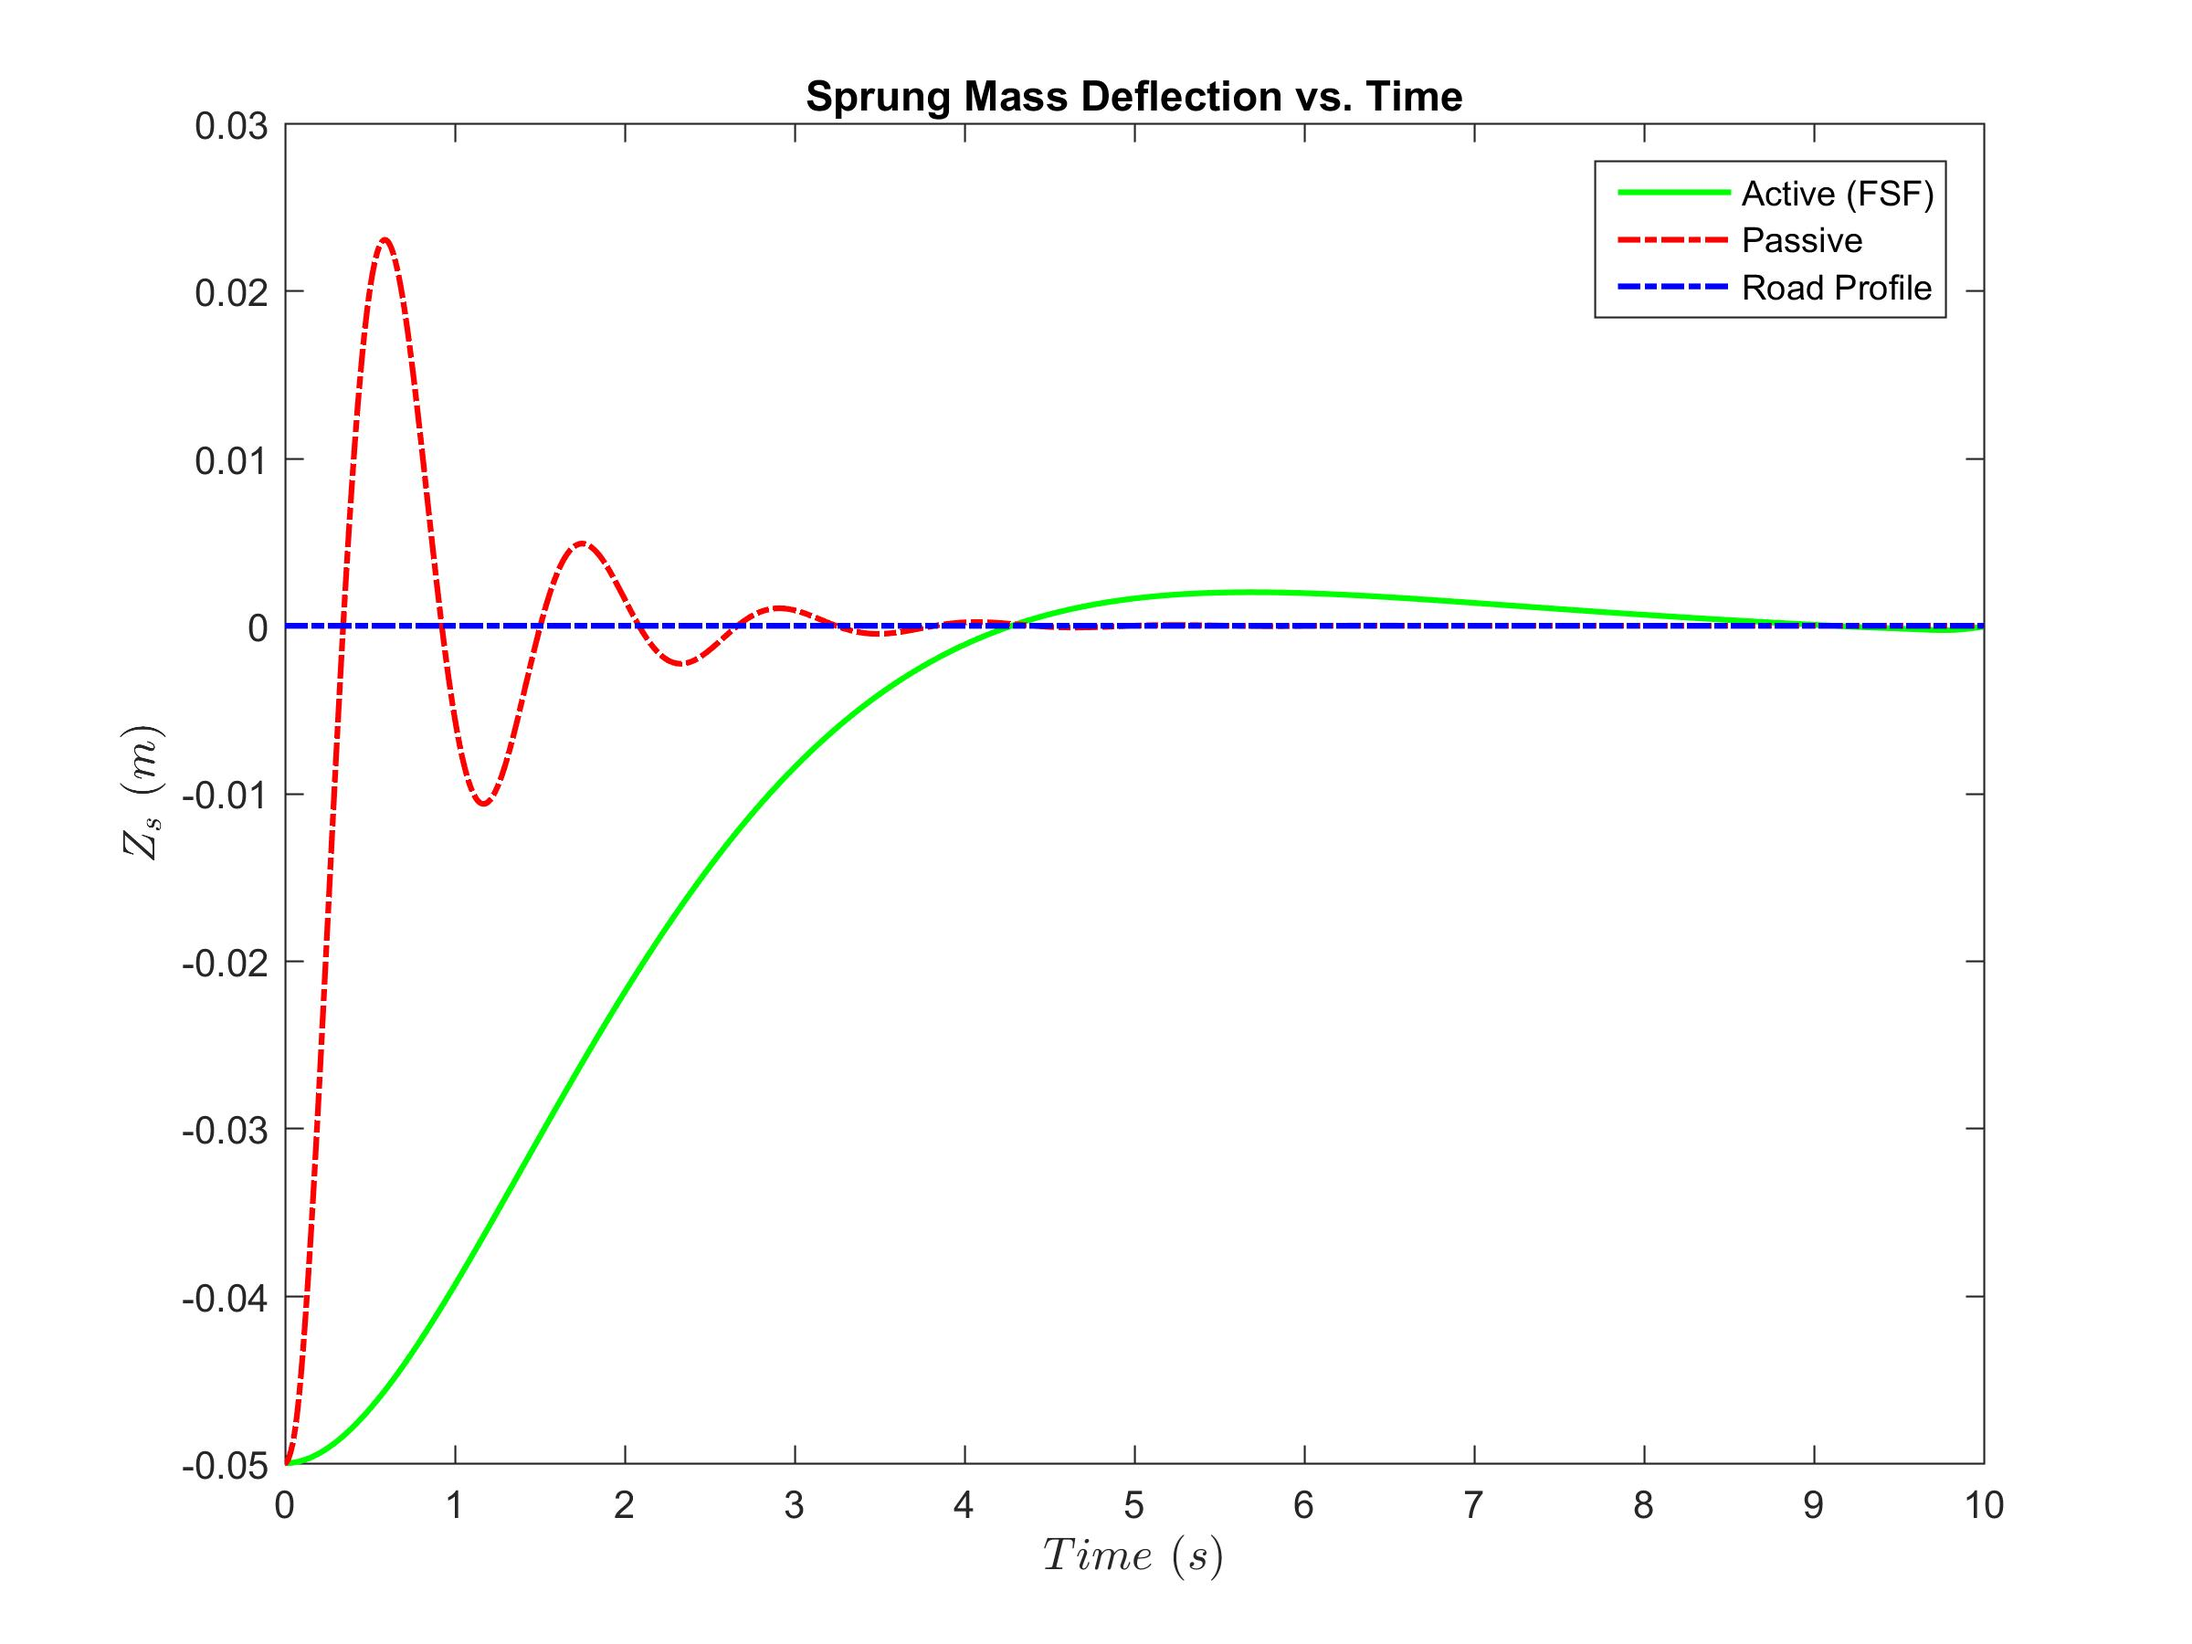
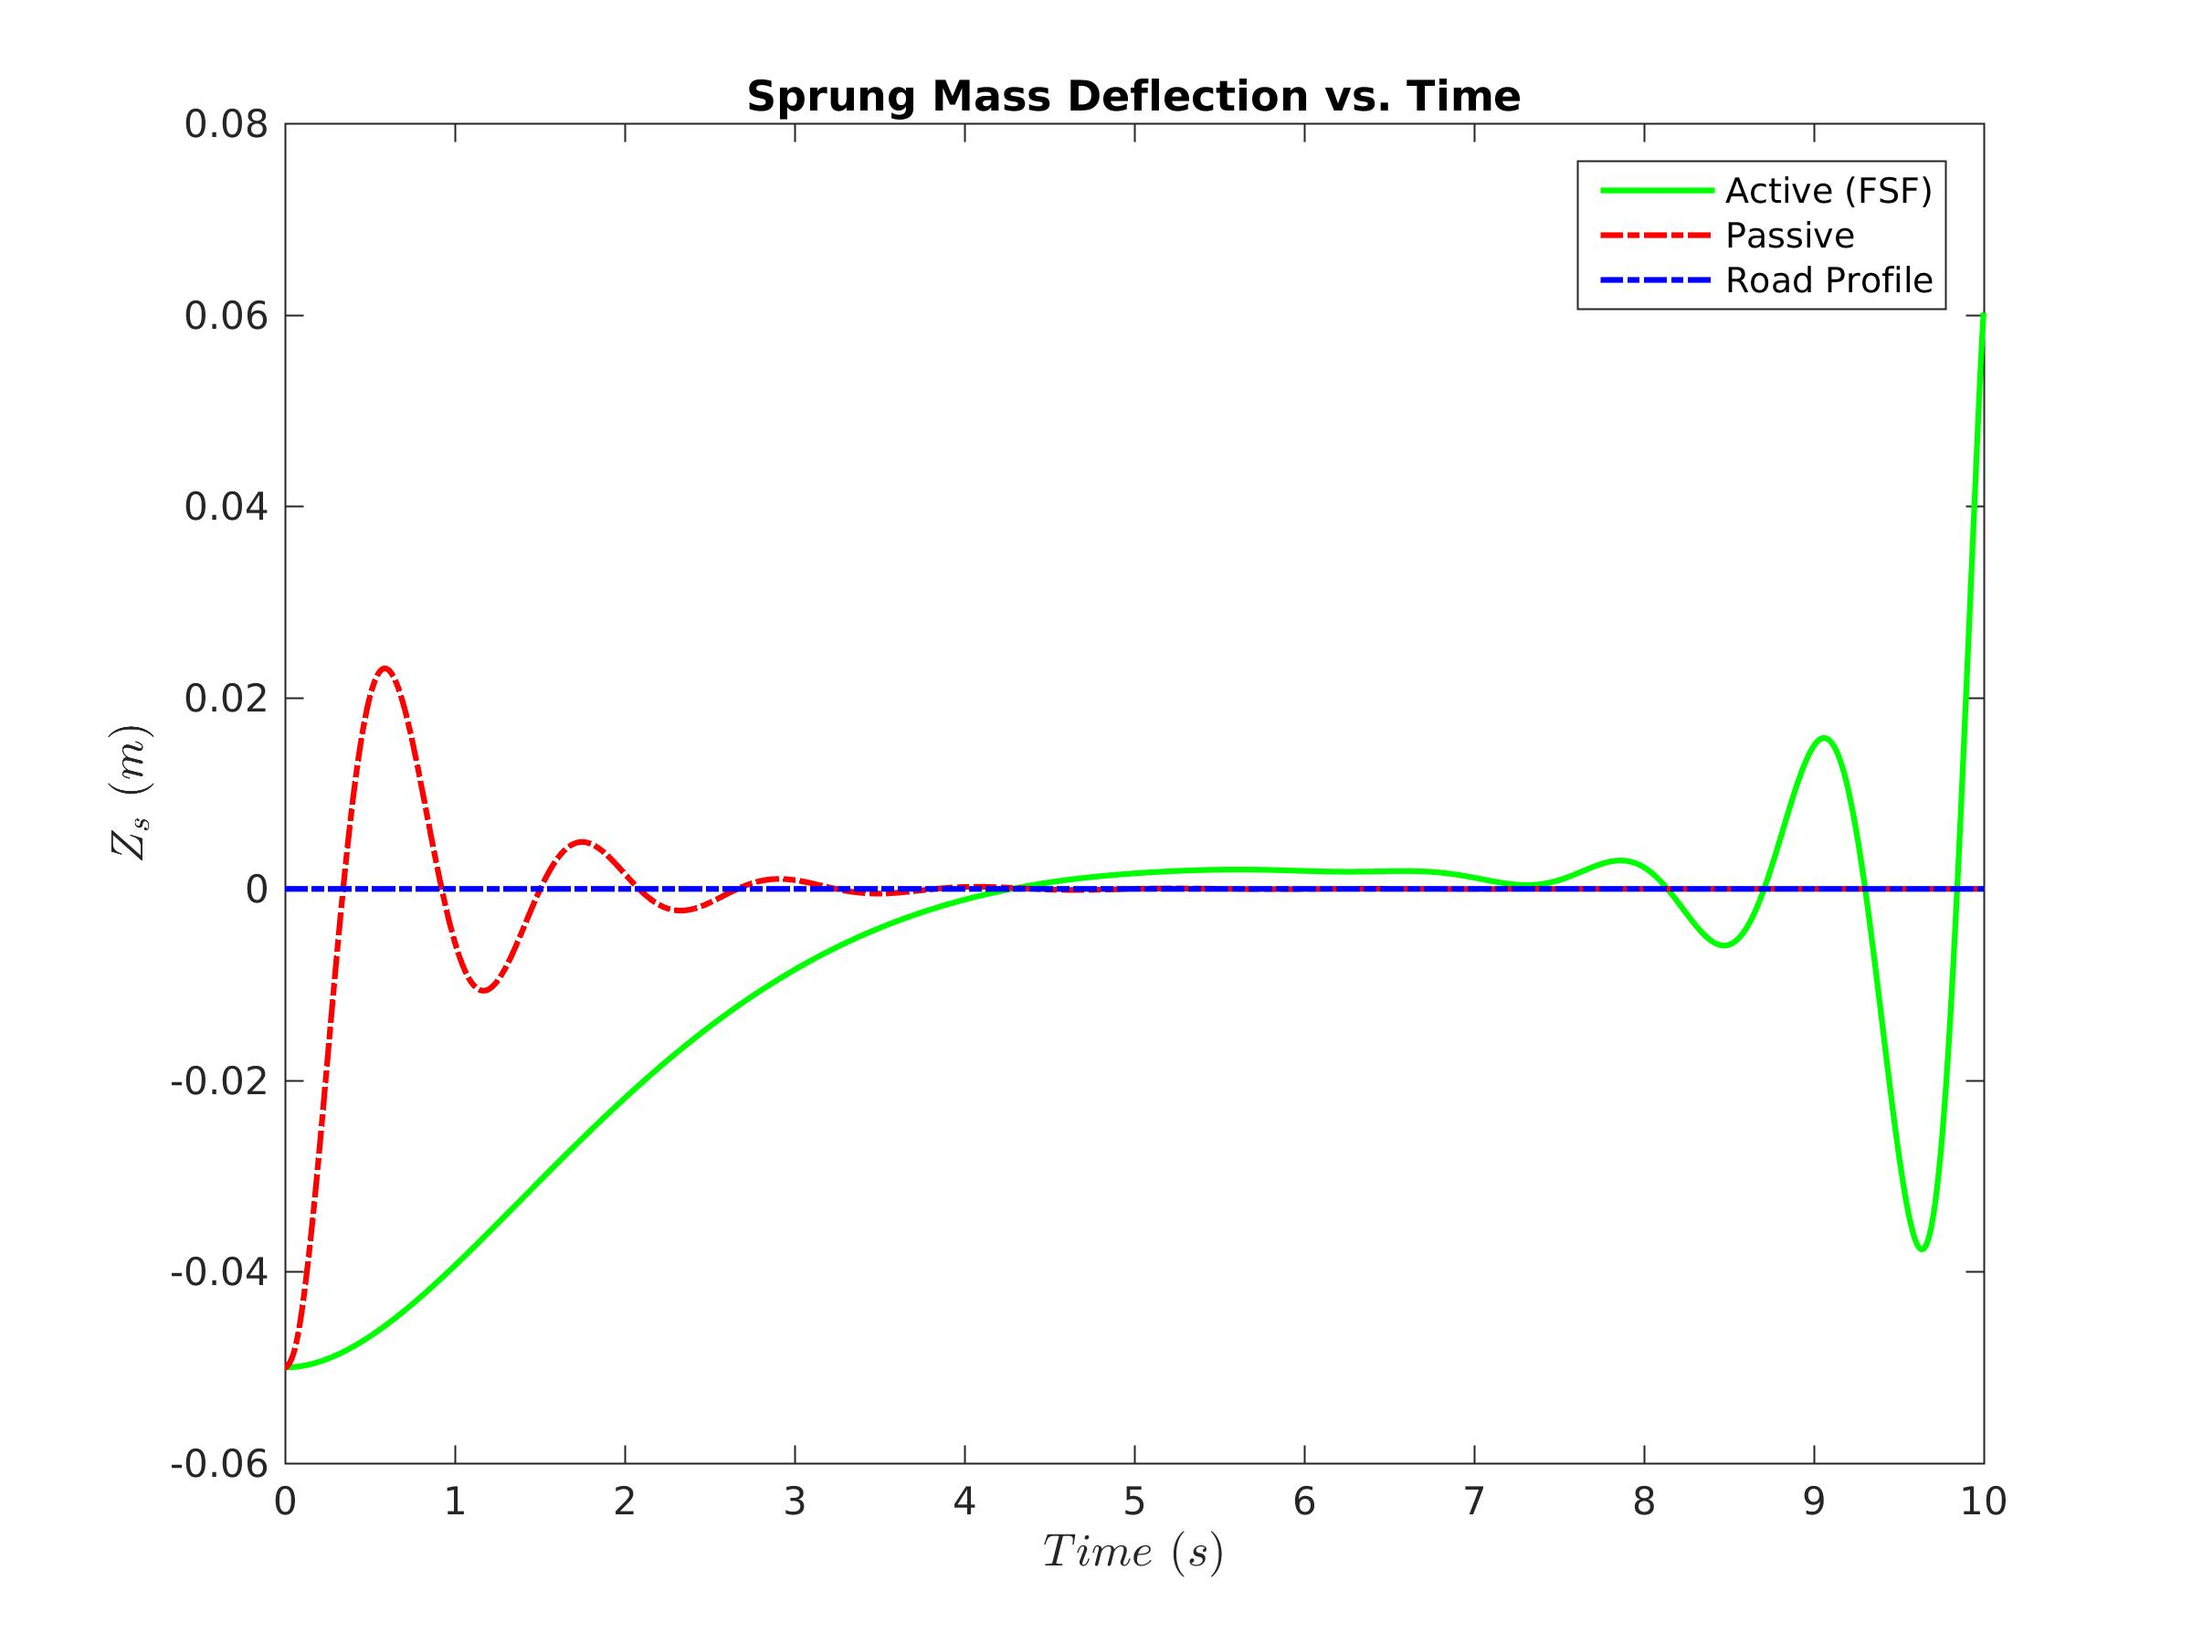
Plots for final state fixed with different final state

diff --git a/Part 2/main_P2_fsfix.m b/Part 2/main_P2_fsfix.m
@@ -23,7 +23,7 @@ rho4 = 0.04; % 0.04
 Amp = 0.05;
 w = 0*2*pi;
 t0 = 0;
-tf = 2;
+tf = 10;
 steps = tf*1000;
 stepsize = (tf-t0)/steps;
 
@@ -156,7 +156,7 @@ xlabel('$Time\hspace{0.05in}(s)$','Interpreter','Latex','FontSize',12)
 ylabel('$Z_s\hspace{0.05in}(m)$','Interpreter','Latex','FontSize',12)
 legend('Active (FSF)','Passive','Road Profile')
 % set(legend,'Interpreter','Latex','FontSize',12)
-print('Passive-SMD','-djpeg','-r300')
+print('Passive-SMD-FSF','-djpeg','-r300')
 
 fig = figure(2);
 % set(fig,'Position',[1800 -320 1200 1000])

diff --git a/Part 2/finalStateFixed.m b/Part 2/finalStateFixed.m
@@ -11,7 +11,7 @@ x2 = x(2);
 x3 = x(3);
 x4 = x(4);
 
-rFinal = zeros(1,1);
+rFinal = 0.05;
 K = Rinv*(B'*SMat + N');
 
 u = -(K - Rinv*B'*VVec*inv(PVec)*VVec')*x - Rinv*B'*VVec*inv(PVec)*rFinal;
